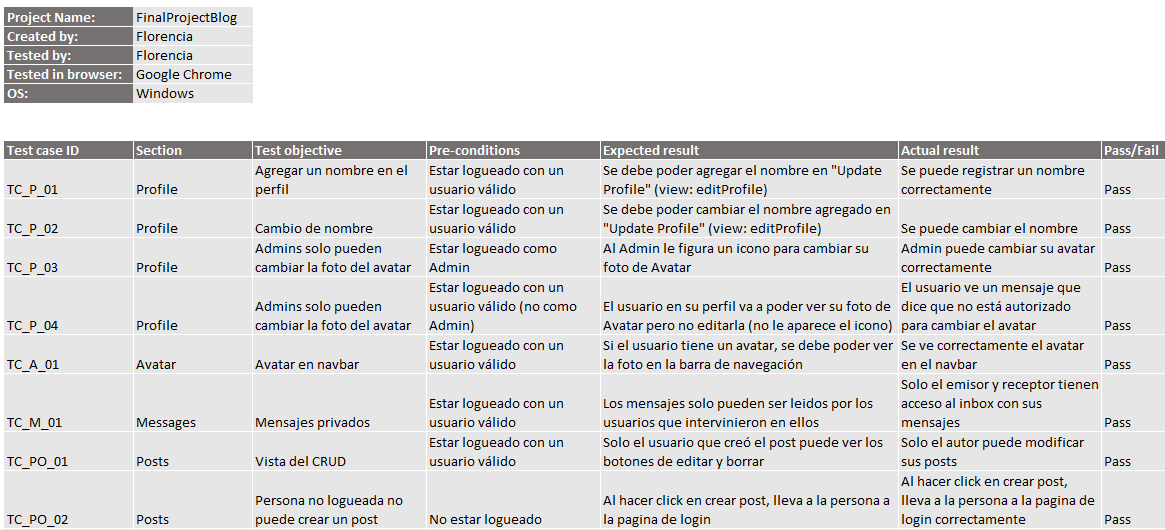
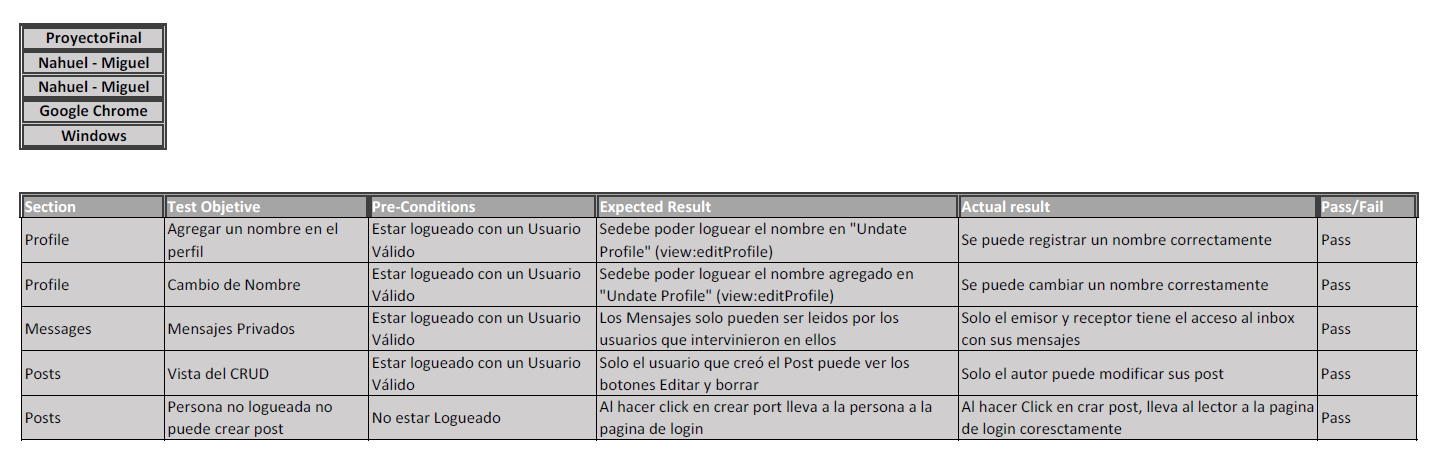
Cambio Test

diff --git a/ProyectoFinal/README.md b/ProyectoFinal/README.md
@@ -6,7 +6,7 @@ Instalar Python desde la [web oficial](https://www.python.org/downloads/)
 
 1.  Clonar el proyecto (o descargar el archivo comprimido)
 
-        -    *git clone https://github.com/flor-ba/FinalProjectBlog.git*
+        -    *git clone https://github.com/nahuelim/ProyectoFinal.git
 
 2.  Instalar las dependencias del proyecto:
 
@@ -69,9 +69,4 @@ a sus mensajes y cerrar la sesión.
 -    ***Backend***: Python with Django
 
 ***
-### Video explicativo
-En el siguiente link encontrarás un video mostrando las funcionalidades del Blog -> [Presentación](https://1drv.ms/v/s!AjKmw0Z03QVFiT7yArEx7s6sQmws)
 
-***
-### Contacto
-Creado por mí :) [FLor](https://github.com/flor-ba) - no dudes en contactarme!
